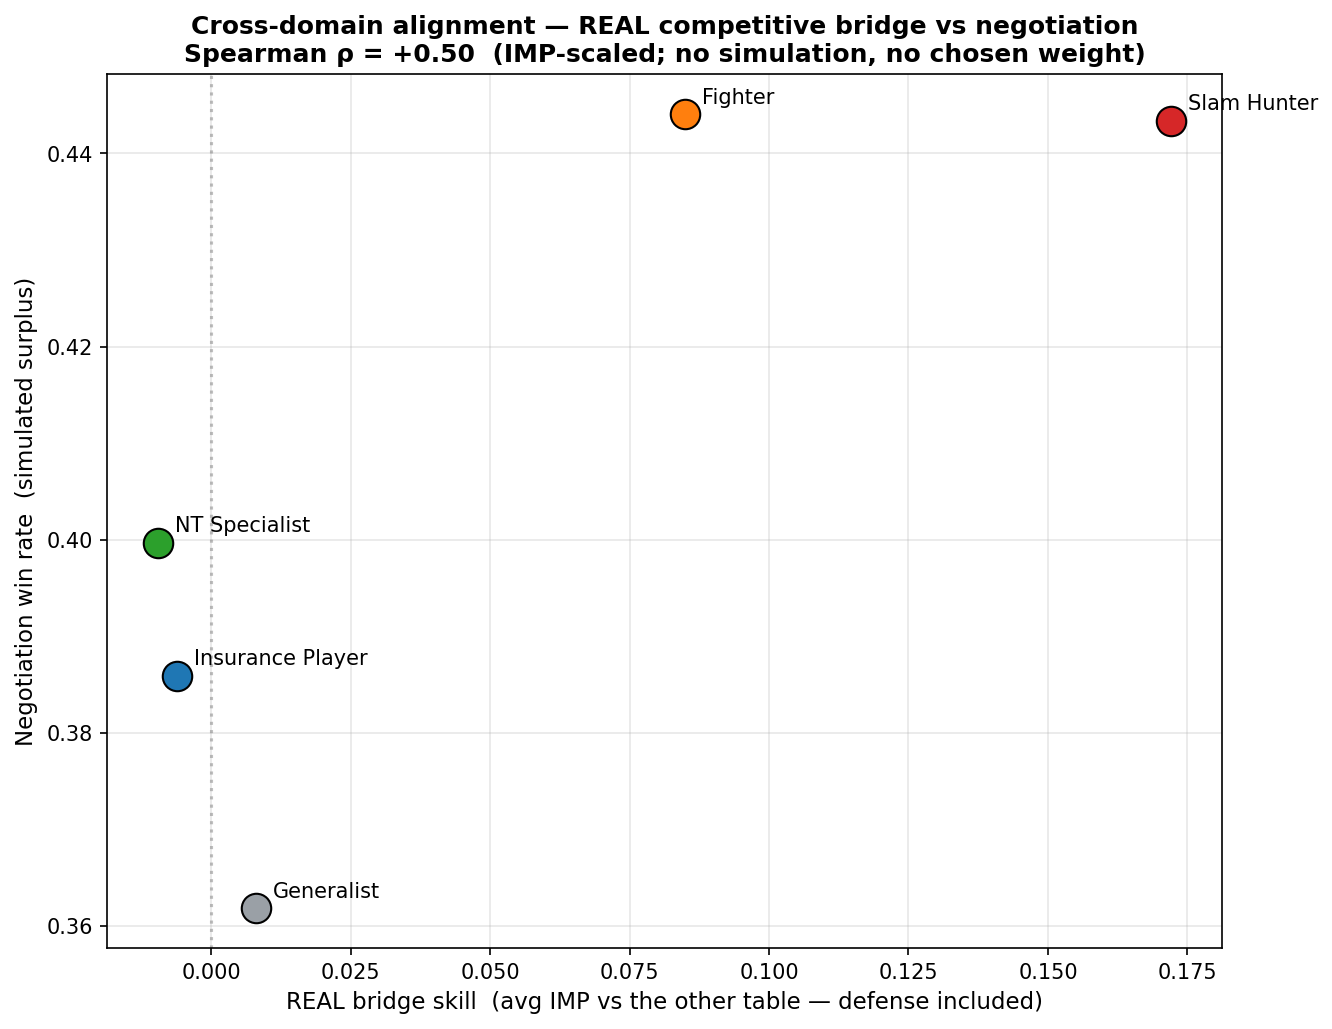
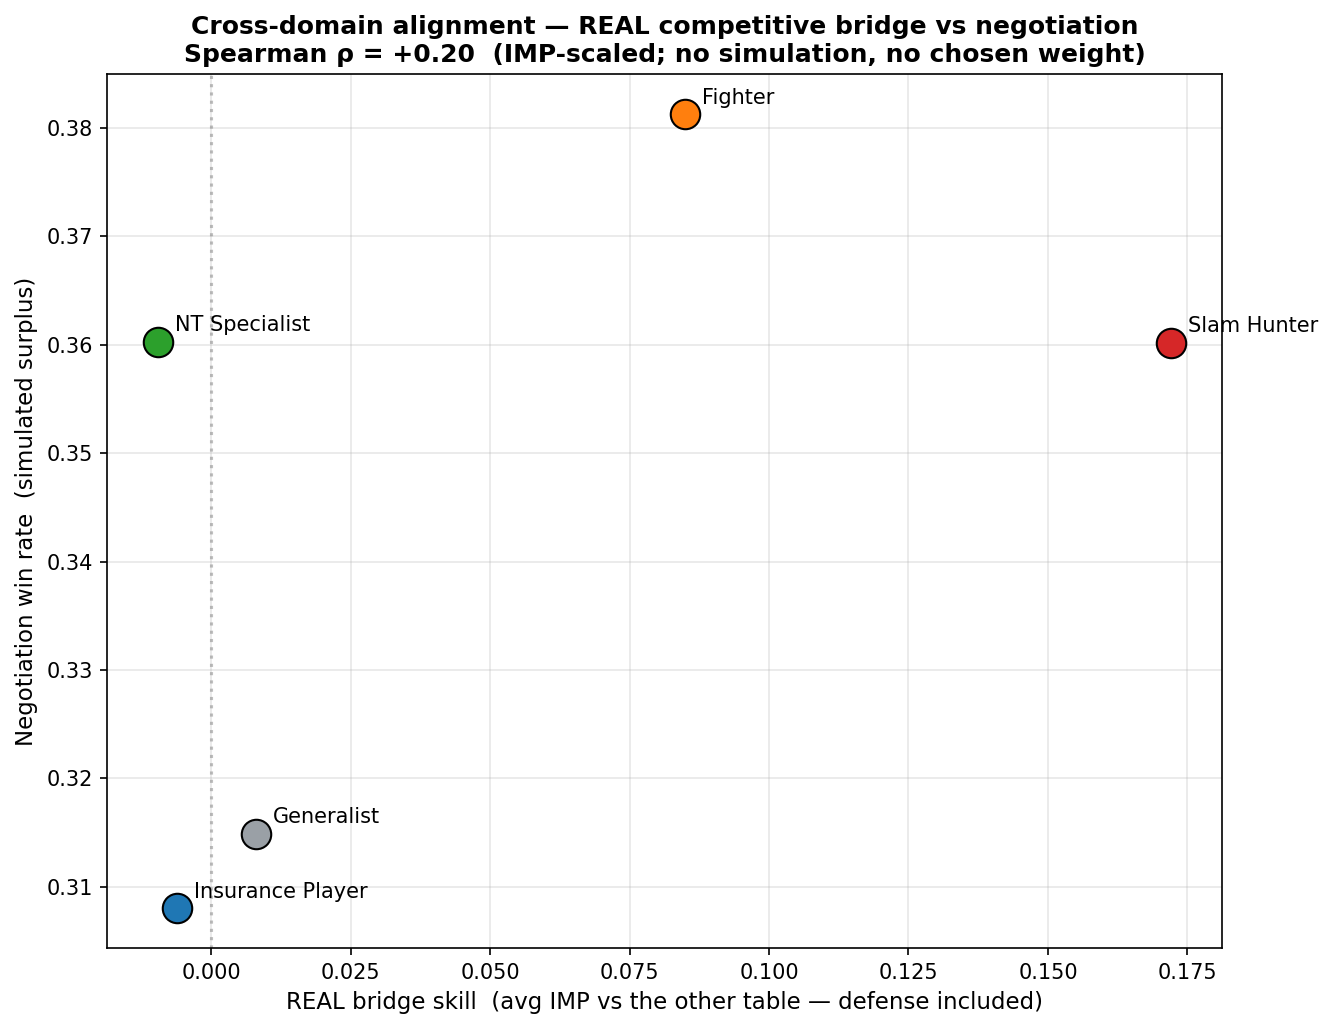
docs(portfolio): reviewer fixes, plain-language pass, continuous pagination, Hebrew deck
Final Summary Report (final_portfolio_phd):
- Clarify the five-profile structure (four archetypes + Generalist baseline,
  K=5) and add the player_profiles.csv dimensions; add Silver (2017) as the
  game-as-testbed citation; add the tail-sample design rationale; signpost the
  label-bias robustness control.
- Plain-language pass: simplify inflated wording (remarkably, consequential,
  principled, materially, ...) and drop the most baroque term, while keeping
  the cited formal terms with plain-language glosses.
- Cover sheet: version 9.0 and a clickable repository link.

Bundle-wide:
- Continuous pagination so the embedded Preparatory Report (Part II, from p.22)
  and Business Plan (Part III, from p.64) footers match the single master TOC.

Presentation and assets:
- Add NegoPlay_presentation.pptx/.pdf (Hebrew, RTL, logo colours, ZI-C figures)
  and build_deck.js; render a clean logo from the SVG (negoplay_logo_clean.png).

diff --git a/NegoPlay/results/stage4/alignment_real_bridge_report.md b/NegoPlay/results/stage4/alignment_real_bridge_report.md
@@ -1,17 +1,17 @@
 # Cross-domain alignment — REAL competitive bridge results (final metric)
 
-**Spearman ρ = +0.500** (IMP-scaled, primary) — p = 0.391, n = 5 → **WEAK**
-Raw-points robustness: ρ = +0.600 (same ranking).
+**Spearman ρ = +0.200** (IMP-scaled, primary) — p = 0.747, n = 5 → **WEAK**
+Raw-points robustness: ρ = +0.500 (same ranking).
 
 Bridge skill is measured from REAL EuroBridge competitive results: each board is replayed at two tables, so a pair's IMP versus the other table (defense included) is genuine teams scoring — no simulation and no hand-chosen weight. The bridge-expert recommended the IMP scale as primary so a single large swing cannot dominate. Negotiation is the simulated surplus.
 
 | Profile | Bridge IMP (primary) | Bridge points (robustness) | Negotiation |
 |---------|----------------------|----------------------------|-------------|
-| Slam Hunter | +0.172 | +4.08 | 0.443 |
-| Fighter | +0.085 | +2.05 | 0.444 |
-| Generalist | +0.008 | +0.19 | 0.362 |
-| Insurance Player | -0.006 | -0.63 | 0.386 |
-| NT Specialist | -0.010 | -0.24 | 0.400 |
+| Slam Hunter | +0.172 | +4.08 | 0.360 |
+| Fighter | +0.085 | +2.05 | 0.381 |
+| Generalist | +0.008 | +0.19 | 0.315 |
+| Insurance Player | -0.006 | -0.63 | 0.308 |
+| NT Specialist | -0.010 | -0.24 | 0.360 |
 
 ## Why this is the strongest metric
 - Real *competitive* auctions (~14.5k with real doubles) — the Fighter doubles real opponents.
